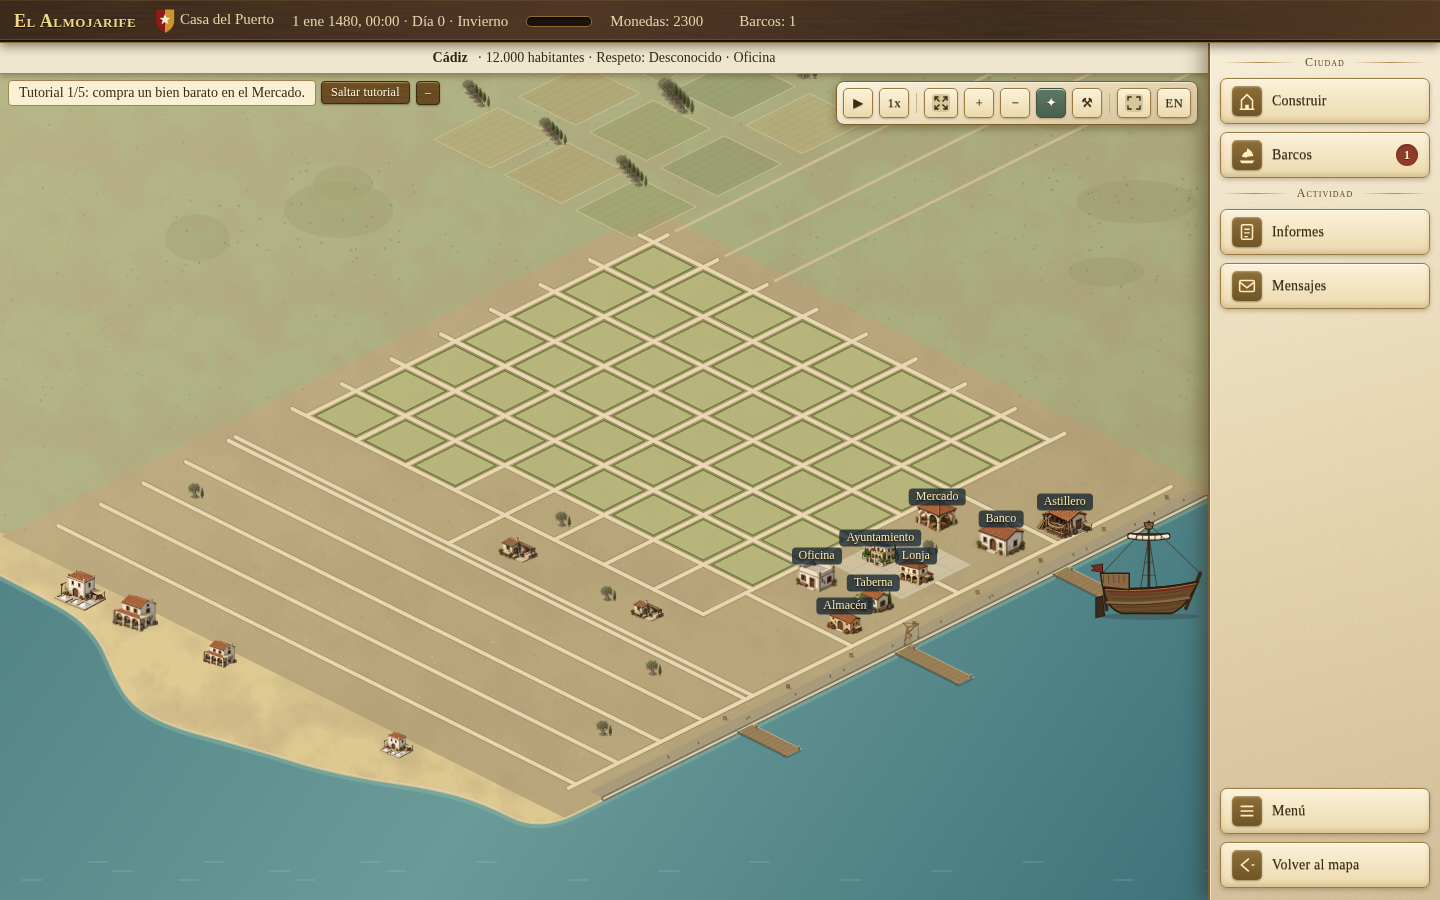
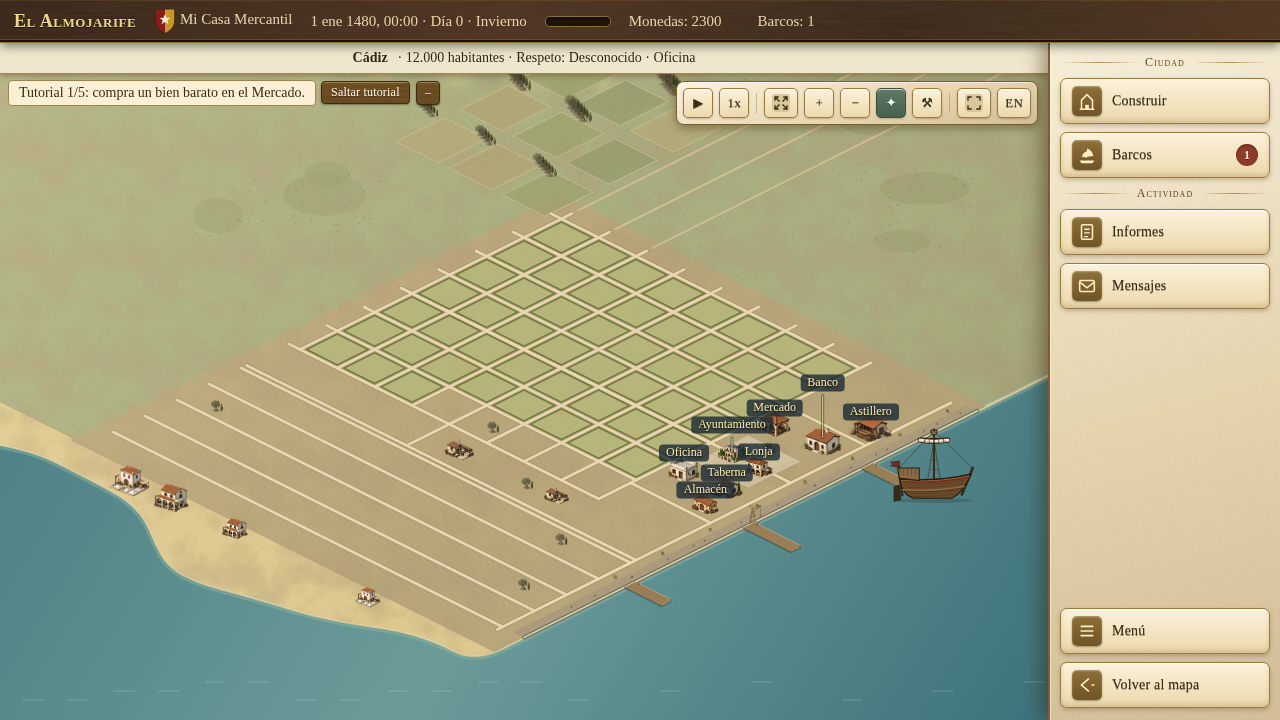
Follow individual ships with view-only camera state (#655)
* feat(map): follow individual ships with view-only camera state

* Expand README gallery with real title and gameplay screenshots (#651)

* Polish navigation ink, parchment cards and keyboard focus (#653)

* style(map): refine chart ink, focus and parchment cards

* docs(style): describe compact card and control sizing changes accurately

---------

* feat(map): add opt-in original compass rose and chart cartouche (#654)

* Add map centering controls and interactive minimap (#648)

* perf(city): build farmland rectangles once per scrub patch generation (#656)

---------

diff --git a/web/navigation-theme.css b/web/navigation-theme.css
@@ -1,0 +1,70 @@
+/* Navigation theme: visual-only polish for the chart window and its cards.
+   Scope: #mapcard, #mapleft, #historical-map-tools/-key, #fleet, #voyage-card and SVG text/routes inside #map.
+   Loaded after the inline <style> of index.html so equal-specificity rules here win. Compact cards and controls adjust padding, minimum height, font size and line height.
+   Chart geometry and pointer behavior stay unchanged. Palette (design reference): paper #f4ead0, ink #302719,
+   ink-soft #5a4630, rule #8b6d36, red #285752, header #55412c, header-text #fff0cb. No images, fonts or network. */
+
+/* ---- Chart SVG text and routes: readability only ---- */
+/* Port names carry an inline fill:#302719; a thin paper halo keeps them legible over land texture, coast and lanes. */
+#map g.city>text{paint-order:stroke fill;stroke:#f4ead0;stroke-width:3px;stroke-linejoin:round;stroke-opacity:.9}
+/* Own-ship names (fill #300 / #a00 when selected) get the same halo; fills are left to the attributes. */
+#shipsLayer text{paint-order:stroke fill;stroke:#f4ead0;stroke-width:3px;stroke-linejoin:round;stroke-opacity:.9}
+/* Planned/active course: same red and dash, with a faint paper edge so it separates from lanes and sea texture. */
+
+
+#map .trade-card:focus-visible{outline:2px solid #285752;outline-offset:2px}
+
+/* ---- Chart frame and message log ---- */
+#mapcard>#log{background:#f4ead0f5;color:#302719;border:1px solid #8b6d36;border-radius:5px;font-size:14px;line-height:1.4;box-shadow:inset 0 1px 0 rgba(255,255,255,.5),0 -2px 8px rgba(14,10,8,.3)}
+
+/* ---- Historical-map controls (Mapa/Map) ---- */
+/* The summary has an inline style from historicalmap.mjs; !important is required to restyle it. Kept compact. */
+#mapleft>#historical-map-tools details>summary{padding:4px 10px!important;min-height:30px;box-sizing:border-box;display:inline-flex!important;align-items:center;border:1px solid #8b6d36;border-radius:6px!important;font-variant:small-caps;letter-spacing:.04em;box-shadow:0 2px 8px rgba(50,32,8,.35),inset 0 1px 0 rgba(255,255,255,.5)}
+#mapleft>#historical-map-tools details>summary:focus-visible{outline:2px solid #302719;outline-offset:2px;box-shadow:0 0 0 4px #f4ead0}
+#mapleft>#historical-map-tools select{margin:4px 0 0;min-height:30px;padding:3px 8px;border:1px solid #8b6d36;color:#302719;background:#fff7e3;box-shadow:0 2px 8px rgba(50,32,8,.3)}
+#mapleft>#historical-map-tools select:focus-visible{outline:2px solid #302719;outline-offset:2px;box-shadow:0 0 0 4px #f4ead0}
+#mapleft>#historical-map-tools select option{color:#302719;background:#fff7e3}
+
+/* ---- Historical-map key ---- */
+#mapleft>#historical-map-key{background:#f4ead0f5;color:#302719;border:1px solid #8b6d36;border-radius:6px;box-shadow:0 2px 8px rgba(50,32,8,.3),inset 0 1px 0 rgba(255,255,255,.5)}
+#mapleft>#historical-map-key p{margin:2px 0}
+#mapleft>#historical-map-key b{color:#55412c}
+#historical-map-key .realm-key-item{color:#302719}
+#historical-map-key .realm-key-item i{border:1px solid #5a4630}
+#historical-map-key .realm-key-note{border-top-color:#8b6d3699;color:#5a4630}
+
+/* ---- Selected-ship voyage card ---- */
+#voyage-card{color:#302719}
+#voyage-card .vc-head{padding-bottom:3px;margin-bottom:5px;border-bottom:1px solid #8b6d3688;color:#55412c;font-variant:small-caps;letter-spacing:.03em}
+#voyage-card .vc-row{line-height:1.4}
+#voyage-card .vc-warn{color:#8d301f}
+#voyage-card progress{accent-color:#285752;height:12px}
+#voyage-card .vc-open{background:#55412c;color:#fff0cb;border:1px solid #302719;box-shadow:inset 0 1px 0 rgba(255,240,203,.25)}
+#voyage-card .vc-open.vc-sail{background:#285752;border-color:#173c38}
+#voyage-card .vc-open.vc-event{background:#285752;border-color:#173c38;box-shadow:inset 0 0 0 1px #f4ead0aa}
+#voyage-card .vc-open:focus-visible{outline:2px solid #302719;outline-offset:2px;box-shadow:0 0 0 4px #f4ead0}
+
+/* ---- Fleet fold ---- */
+#fleet{color:#302719;border-color:#8b6d36}
+#fleet summary{font-variant:small-caps;letter-spacing:.04em;color:#55412c}
+#fleet summary:focus-visible{outline:2px solid #302719;outline-offset:-3px;box-shadow:inset 0 0 0 4px #f4ead0}
+#fleet-body{padding:6px 8px 8px}
+#fleet .fleet-row{border-color:#8b6d36;color:#302719}
+#fleet .fleet-row+.fleet-row{margin-top:4px}
+#fleet .fleet-row small{color:#5a4630}
+#fleet .fleet-row[aria-pressed=true]{border:2px solid #285752;box-shadow:inset 4px 0 0 #285752,0 1px 3px rgba(60,40,10,.2)}
+#fleet .fleet-row:focus-visible{outline:2px solid #302719;outline-offset:2px;box-shadow:0 0 0 4px #f4ead0}
+#fleet input:focus-visible,#fleet select:focus-visible,#fleet button:focus-visible{outline:2px solid #302719;outline-offset:2px;box-shadow:0 0 0 4px #f4ead0}
+#fleet input,#fleet select{border-color:#8b6d36}
+
+/* ---- Short windows (1280x720): tighter cards so the chart keeps its room ---- */
+@media(max-height:760px){
+#voyage-card .vc-row{line-height:1.3}
+#maparea>#mapleft>#voyage-card{padding:6px 10px}
+#fleet .fleet-row{padding:7px 10px;gap:2px}
+#fleet summary{padding:7px 12px}
+}
+
+@media(forced-colors:active){
+#fleet .fleet-row[aria-pressed=true]{outline:2px solid Highlight}
+}

diff --git a/web/index.html b/web/index.html
@@ -366,6 +366,7 @@ body.has-event #panel-home>#panel{order:-5}
 #notice-card{padding:8px 12px;border:2px solid #7d5f2c;border-radius:8px;color:#302719;background:linear-gradient(165deg,rgba(255,250,235,.55),rgba(206,174,112,.30) 60%,rgba(146,106,50,.32)),#f4ead0;box-shadow:0 3px 10px rgba(50,32,8,.3)}#notice-card[hidden]{display:none}#notice-card .nc-row{margin:2px 0;line-height:1.45}
 #map-navigation{position:absolute;top:8px;left:8px;z-index:15;display:flex;gap:4px;max-width:calc(100% - 16px);flex-wrap:wrap}#map-navigation[hidden]{display:none}#map-navigation button{font-size:14px;padding:5px 8px;color:#392810;background:#f6e8c5;border:1px solid #72552a;border-radius:4px;box-shadow:0 2px 4px #0004}#map-minimap{position:absolute;bottom:10px;left:10px;width:160px;height:100px;z-index:15;border:2px solid #72552a;border-radius:3px;background:#f6e8c5;box-shadow:0 2px 5px #0005;touch-action:none;cursor:crosshair}
 </style>
+<link rel="stylesheet" href="navigation-theme.css">
 </head><body>
 <header><b>El Almojarife</b><span id="co"></span><span id="day"></span><span id="todbar" role="img" title="time of day"><i></i></span><span id="cash"></span><span id="goal"></span><span id="ships"></span>
 <span id="ctl"><span id="timectl" role="group"><button id="play"></button><button id="spd"></button></span> <span id="pausenote" role="status"></span> <button id="rep"></button> <button id="msg"></button></span><span id="hdr-right" style="margin-left:auto"><button id="fs" hidden aria-label="Fullscreen" title="Fullscreen">⛶</button> <button id="lang">EN</button> <button id="new">Menú</button></span></header>

diff --git a/README.md b/README.md
@@ -48,13 +48,17 @@ This README describes merged source at the documentation checkpoint, not a deplo
 
 ## Screenshots
 
-_All eight screenshots below were refreshed on 28 Oct 2026 from merged `main` b24895a1c3783861354f8a5e594ef4e7d7df72b0, at desktop 1440x900 with the Spanish UI and an isolated synthetic campaign. The warehouse view uses synthetic warehouse ownership. Refresh screenshots when the UI changes so they never show unmerged work._
+_Five real-game captures were added or refreshed on 28 Oct 2026 from merged `main` 99c299bc16c822fb7a570853dde5d6383d31b9a9, at desktop 1280x720 with the Spanish UI: title, pause menu, city, messages and activity history. Messages and activity history use the existing day-804 campaign; title, pause menu and city use the title/new-game flow. The other seven captures retain their earlier provenance: merged `main` b24895a1c3783861354f8a5e594ef4e7d7df72b0, desktop 1440x900, isolated synthetic campaign (including synthetic warehouse ownership). No unmerged map-navigation changes are shown. Refresh screenshots when the UI changes._
 
-| The city plan | Trade in the market |
+| Start your trading house | Save and adjust your game |
 |---|---|
-| ![2D city plan of the home port with the city toolbar](docs/img/city2d.png) | ![Market with prices, charts and cheap/dear arrows](docs/img/market.png) |
+| ![Pantalla inicial de Almojarife, con el libro de la casa mercantil y las opciones de partida](docs/img/title.png) | ![Menú de pausa con guardado, ranuras, ajustes y regreso al título](docs/img/pause-menu.png) |
+| **The city plan** | **Trade in the market** |
+| ![Ciudad de Cádiz y sus edificios con los controles de construcción, barcos e informes](docs/img/city2d.png) | ![Market with prices, charts and cheap/dear arrows](docs/img/market.png) |
 | **The sea chart** | **Build ships at the shipyard** |
 | ![Sea chart with ports, routes and the port panel](docs/img/map.png) | ![Shipyard tab with the ship classes and their orders](docs/img/shipyard.png) |
+| **Messages from port and house** | **Activity history** |
+| ![Mensajes del puerto y de la casa en una partida avanzada, día 804](docs/img/messages.png) | ![Historial de compras, ventas y viajes de una casa mercantil en el día 804](docs/img/activity-history.png) |
 | **Tavern: captains and news** | **Bank: loans and interest** |
 | ![Tavern tab](docs/img/tavern.png) | ![Bank tab](docs/img/bank.png) |
 | **Warehouse and steward** | **Create your house** |
